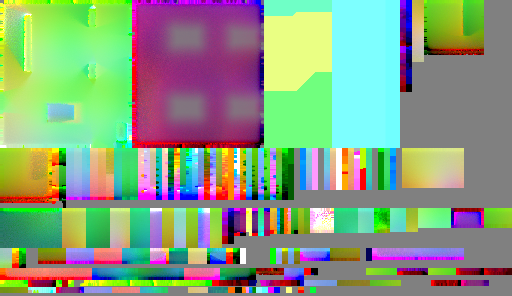
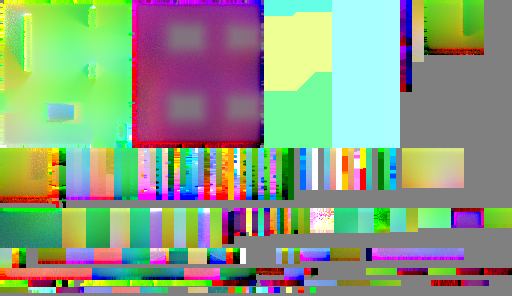
Breachline Archive round 1: cooler fittings, quieter labels and papers, darker table veneer; evidence and STATUS
Claude-Session: https://claude.ai/code/session_015jvJA7yoUBSiN7zPHK6vVC

diff --git a/src/games/breachline/render/labdress.ts b/src/games/breachline/render/labdress.ts
@@ -54,8 +54,8 @@ function shelving(D: DetailBuilder, x0: number, z0: number, x1: number, z1: numb
           } else {
             const shade = 0.75 + r() * 0.3;
             put('card', u, u + w - 0.006, y, y + h, 0.002, 0.014, [shade, shade * 0.97, shade * 0.92]);
-            put('label', u + w * 0.2, u + w * 0.8, y + h * 0.5, y + h * 0.78, 0.014, 0.0155);
-            put('kick', u + w * 0.38, u + w * 0.62, y + h * 0.18, y + h * 0.3, 0.014, 0.0152, [0.35, 0.3, 0.25]);
+            put('label', u + w * 0.3, u + w * 0.7, y + h * 0.58, y + h * 0.74, 0.014, 0.0155, [0.82, 0.8, 0.74]);
+            put('kick', u + w * 0.43, u + w * 0.57, y + h * 0.22, y + h * 0.28, 0.014, 0.0152, [0.35, 0.3, 0.25]);
           }
           u += w + 0.004;
         }
@@ -97,8 +97,8 @@ function dressArchive(atlas: Atlas, room: Region): DetailBuilder {
       // The reading table: paper stacks, box files lying flat, an open archive box.
       const top = b.y1, r = seeded(5), on = (x: number, z: number): V3 => [x, top + 0.001, z], tu: V3 = [0, 1, 0];
       for (let i = 0; i < 5; i++) {
-        const x = b.x0 + 0.2 + r() * (b.x1 - b.x0 - 0.5), z = b.z0 + 0.15 + r() * (b.z1 - b.z0 - 0.45), h = 0.01 + r() * 0.05;
-        D.box('paper', x, top, z, x + 0.21, top + h, z + 0.3, on(x + 0.1, z + 0.15), tu, [0.95, 0.94, 0.9]);
+        const x = b.x0 + 0.2 + r() * (b.x1 - b.x0 - 0.5), z = b.z0 + 0.15 + r() * (b.z1 - b.z0 - 0.45), h = 0.005 + r() * 0.03;
+        D.box('paper', x, top, z, x + 0.21, top + h, z + 0.3, on(x + 0.1, z + 0.15), tu, [0.5, 0.5, 0.47]);
       }
       D.box('binder', b.x1 - 0.5, top, b.z0 + 0.2, b.x1 - 0.18, top + 0.07, b.z0 + 0.48, on(b.x1 - 0.34, b.z0 + 0.34), tu, [0.2, 0.25, 0.45]);
       D.box('card', b.x0 + 0.25, top, b.z1 - 0.42, b.x0 + 0.62, top + 0.26, b.z1 - 0.12, on(b.x0 + 0.43, b.z1 - 0.27), tu, [0.9, 0.86, 0.78]);

diff --git a/src/games/breachline/render/fixtures.ts b/src/games/breachline/render/fixtures.ts
@@ -14,8 +14,8 @@ export const FIXTURES: Record<string, Fixture[]> = {
   // Two rows over the walkways either side of the benches: the benches throw shadow between them.
   lab: [-2.7, 1.7].flatMap(x => [-8.2, -4.2].map(z => troffer(x, z))),
   // One line down the middle of the corridor every 4.5 m, so the walls get pools and falloff; warmer than the Lab.
-  // The Archive: four fittings between the shelving runs, a warmer white.
-  archive: [3.3, 6.9].flatMap(x => [3.2, 7.6].map(z => troffer(x, z, [1, 0.93, 0.82]))),
+  // The Archive: four fittings between the shelving runs, a slightly warm white.
+  archive: [3.3, 6.9].flatMap(x => [3.2, 7.6].map(z => troffer(x, z, [1, 0.97, 0.91]))),
   corridor: [-12.75, -8.25, -3.75, 0.75, 5.25, 9.75, 13.5].map(x => troffer(x, -0.5, [1, 0.95, 0.86])),
 };
 /** Where the baker's light samples sit: just under the diffuser of the modelled fitting (render/fixturemesh.ts). */

diff --git a/src/games/breachline/render/surfaces.ts b/src/games/breachline/render/surfaces.ts
@@ -27,7 +27,7 @@ export const PLANKS: Surface = { set: 'raw_plank_wall', size: 1.87, tint: [0.85,
 export const SURFACES: Partial<Record<TexId, Surface>> = {
   // Archive floor: worn timber boards; tables and desks in the same wood, darker.
   floorboards: { set: 'wood_planks', size: 1.5, gloss: 0.6, spec: 1.2, tint: [0.85, 0.8, 0.75] },
-  wood: { set: 'wood_planks', size: 1.2, gloss: 0.5, tint: [0.55, 0.45, 0.38] },
+  wood: { set: 'wood_planks', size: 0.6, gloss: 0.35, spec: 1.3, tint: [0.3, 0.22, 0.17] },
   // Shelving carcasses: dark painted steel behind the modelled uprights and boxes.
   shelf: { set: 'painted_plaster_wall', size: 1, tint: [0.18, 0.19, 0.21] },
   // Polished terrazzo in the corridor: cool grey, glossy enough to carry the fittings' reflections.

diff --git a/docs/evidence/breachline/overhaul/STATUS.md b/docs/evidence/breachline/overhaul/STATUS.md
@@ -9,7 +9,23 @@ Weapons, hands and fighters (rows E and F, phases 6 and 7) now belong to the her
 contrast and modelled fixtures, visible specular, post chain basics, dense Lab props; then KTX2 and the phase-1
 renderer work, measured against section 5.
 
-**Where I am (keep current):** corridor round 2 done (`rooms/corridor/round-2/`); next the Archive, then the destruction look.
+**Where I am (keep current):** Archive round 1 done (`rooms/archive/round-1/`); next the destruction look (phase 5).
+
+## Roll-out step 3: Archive (site B)
+
+Round 0/1: timber floor (Poly Haven `wood_planks`, CC0, Amal Kumar); four slightly warm fittings between the
+shelving runs; shelving dressed on its solid collision boxes: steel uprights and shelf lips, archive-box fronts with
+labels and hand-holes, and box files in varied colours, all standing just proud of the faces, so the collision is
+unchanged; a bank of filing cabinets with drawer pulls and label holders; the reading table with paper stacks, a box
+file and an open archive box (dark veneer, so it separates from the floor); ceiling grid, sprinklers, detector; a
+clock, sockets and skirting on the solid south wall. Fixes after the first look: labels and hand-holes were too
+large and white, the papers glared, and warm light plus the timber's bounce made the ceiling muddy brown (cooled).
+Rooms now load independently: a missing or stale bake keeps that one room on the old look instead of all of them.
+
+Scores (mine, `rooms/archive/round-1/`): A 6.5, B 6.5, C 6.5, D 7. Budgets: High 46k-82k triangles, 88-179 draw
+calls (the shelving costs draw calls: about 20 dressing materials; merging by material on High is next if the
+total grows); Low 71-151. Three rooms baked in parallel in 447 s.
+
 
 ## Roll-out step 2: corridor (in progress)
 
